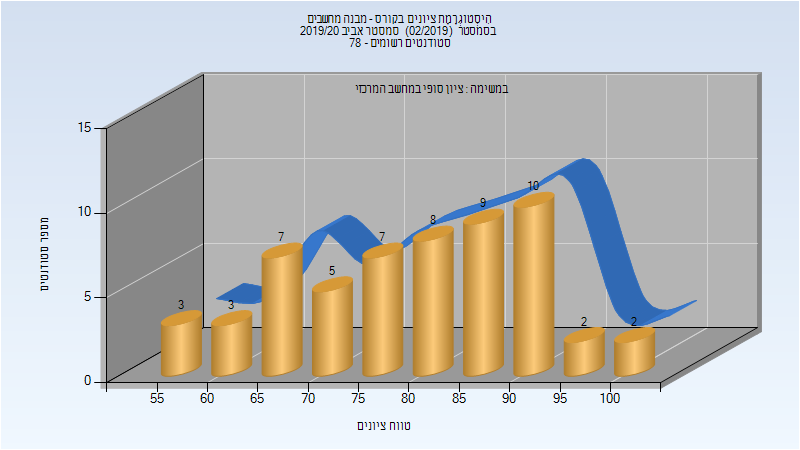
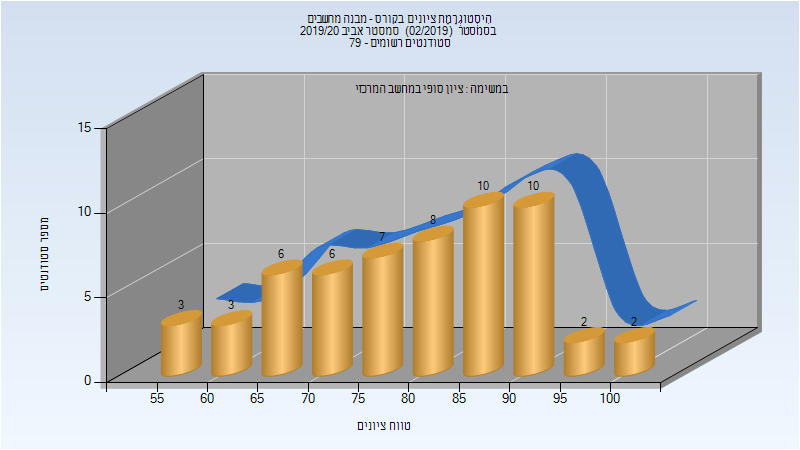
Deploy michael-maltsev/technion-histograms to github.com/michael-maltsev/technion-histograms.git:gh-pages

Changed region(s): [[0.3125, 0.4667, 0.5312, 0.6533], [0.5312, 0.3422, 0.75, 0.4978]]

diff --git a/104279/index.html b/104279/index.html
@@ -409,6 +409,58 @@
 </tr>
 </tbody>
 </table>
+<h3>מבחן מועד ב'</h3>
+<p><img src="201901/Exam_B.png" alt="201901 Exam_B" /></p>
+<table>
+<thead>
+<tr>
+<th>סטודנטים</th>
+<th>עברו/נכשלו</th>
+<th>אחוז עוברים</th>
+<th>ציון מינימלי</th>
+<th>ציון מקסימלי</th>
+<th>ממוצע</th>
+<th>חציון</th>
+</tr>
+</thead>
+<tbody>
+<tr>
+<td>14</td>
+<td>12/2</td>
+<td>86</td>
+<td>37</td>
+<td>98</td>
+<td>73.286</td>
+<td>81</td>
+</tr>
+</tbody>
+</table>
+<h3>סופי מועד ב'</h3>
+<p><img src="201901/Final_B.png" alt="201901 Final_B" /></p>
+<table>
+<thead>
+<tr>
+<th>סטודנטים</th>
+<th>עברו/נכשלו</th>
+<th>אחוז עוברים</th>
+<th>ציון מינימלי</th>
+<th>ציון מקסימלי</th>
+<th>ממוצע</th>
+<th>חציון</th>
+</tr>
+</thead>
+<tbody>
+<tr>
+<td>14</td>
+<td>12/2</td>
+<td>86</td>
+<td>37</td>
+<td>99</td>
+<td>74.643</td>
+<td>81.5</td>
+</tr>
+</tbody>
+</table>
 <h3>סופי</h3>
 <p><img src="201901/Finals.png" alt="201901 Finals" /></p>
 <table>

diff --git a/114229/index.html b/114229/index.html
@@ -92,5 +92,20 @@
 </tr>
 </tbody>
 </table>
+<h2>אביב 2020</h2>
+<table>
+<thead>
+<tr>
+<th>איש סגל</th>
+<th>תפקיד</th>
+</tr>
+</thead>
+<tbody>
+<tr>
+<td>טרם שלומית</td>
+<td>מרצה - אחראי מקצוע</td>
+</tr>
+</tbody>
+</table>
   </body>
 </html>

diff --git a/236267/index.html b/236267/index.html
@@ -175,13 +175,13 @@
 </thead>
 <tbody>
 <tr>
-<td>56</td>
-<td>56/0</td>
+<td>57</td>
+<td>57/0</td>
 <td>100</td>
 <td>56</td>
 <td>100</td>
-<td>79.768</td>
-<td>81.5</td>
+<td>79.947</td>
+<td>82</td>
 </tr>
 </tbody>
 </table>

diff --git a/104279/README.md b/104279/README.md
@@ -124,6 +124,22 @@
 | ---- | ---- | ---- | ---- | ---- | ---- | ---- |
 | 15 | 15/0 | 100 | 65 | 94 | 84.2 | 87 |
 
+### מבחן מועד ב'
+
+![201901 Exam_B](201901/Exam_B.png)
+
+| סטודנטים | עברו/נכשלו | אחוז עוברים | ציון מינימלי | ציון מקסימלי | ממוצע | חציון |
+| ---- | ---- | ---- | ---- | ---- | ---- | ---- |
+| 14 | 12/2 | 86 | 37 | 98 | 73.286 | 81 |
+
+### סופי מועד ב'
+
+![201901 Final_B](201901/Final_B.png)
+
+| סטודנטים | עברו/נכשלו | אחוז עוברים | ציון מינימלי | ציון מקסימלי | ממוצע | חציון |
+| ---- | ---- | ---- | ---- | ---- | ---- | ---- |
+| 14 | 12/2 | 86 | 37 | 99 | 74.643 | 81.5 |
+
 ### סופי
 
 ![201901 Finals](201901/Finals.png)

diff --git a/236267/README.md b/236267/README.md
@@ -54,5 +54,5 @@
 
 | סטודנטים | עברו/נכשלו | אחוז עוברים | ציון מינימלי | ציון מקסימלי | ממוצע | חציון |
 | ---- | ---- | ---- | ---- | ---- | ---- | ---- |
-| 56 | 56/0 | 100 | 56 | 100 | 79.768 | 81.5 |
+| 57 | 57/0 | 100 | 56 | 100 | 79.947 | 82 |
 

diff --git a/114229/README.md b/114229/README.md
@@ -26,3 +26,9 @@
 | ---- | ---- |
 | טרם שלומית | מרצה - אחראי מקצוע |
 
+## אביב 2020
+
+| איש סגל | תפקיד |
+| ---- | ---- |
+| טרם שלומית | מרצה - אחראי מקצוע |
+
